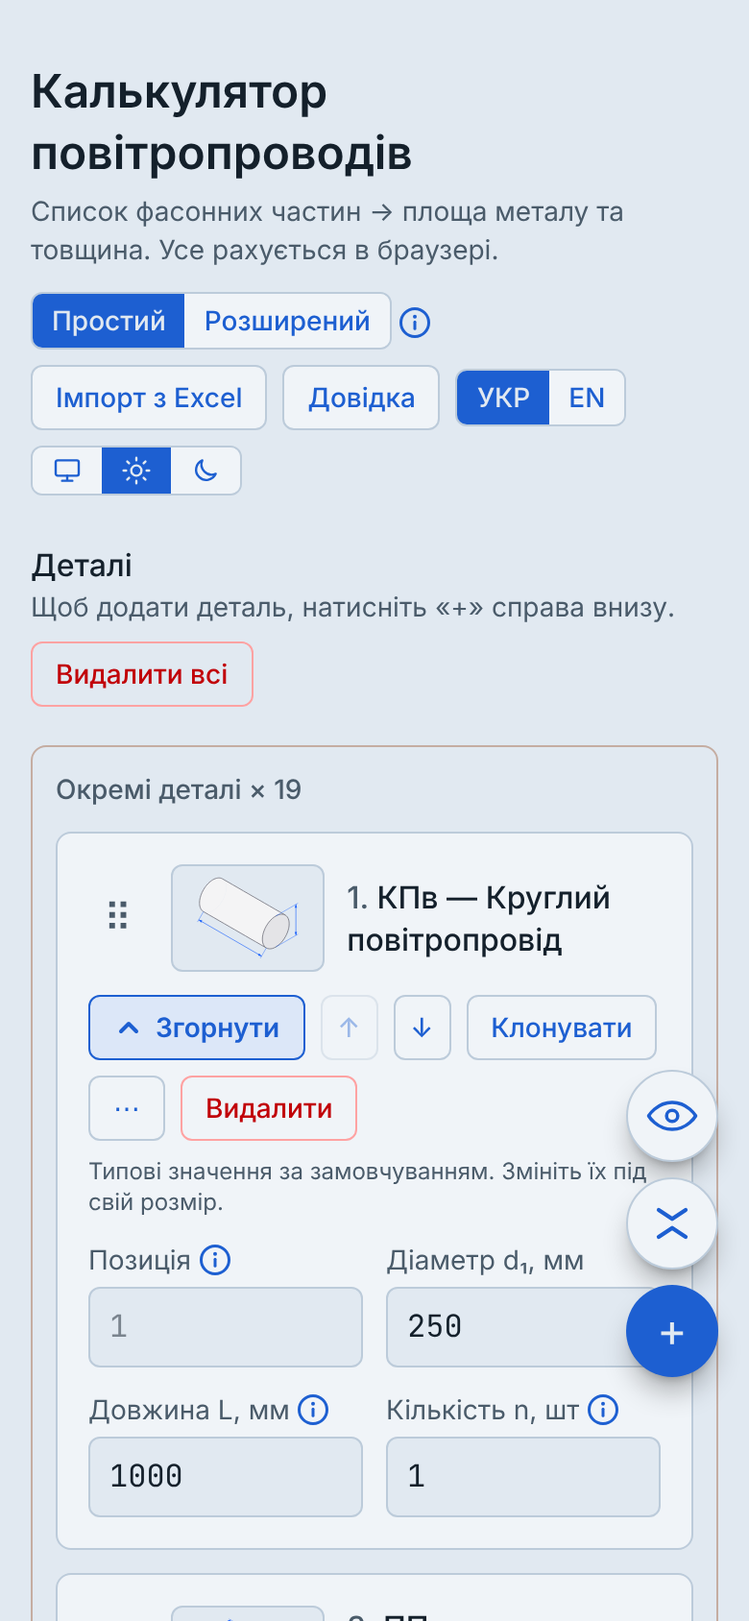
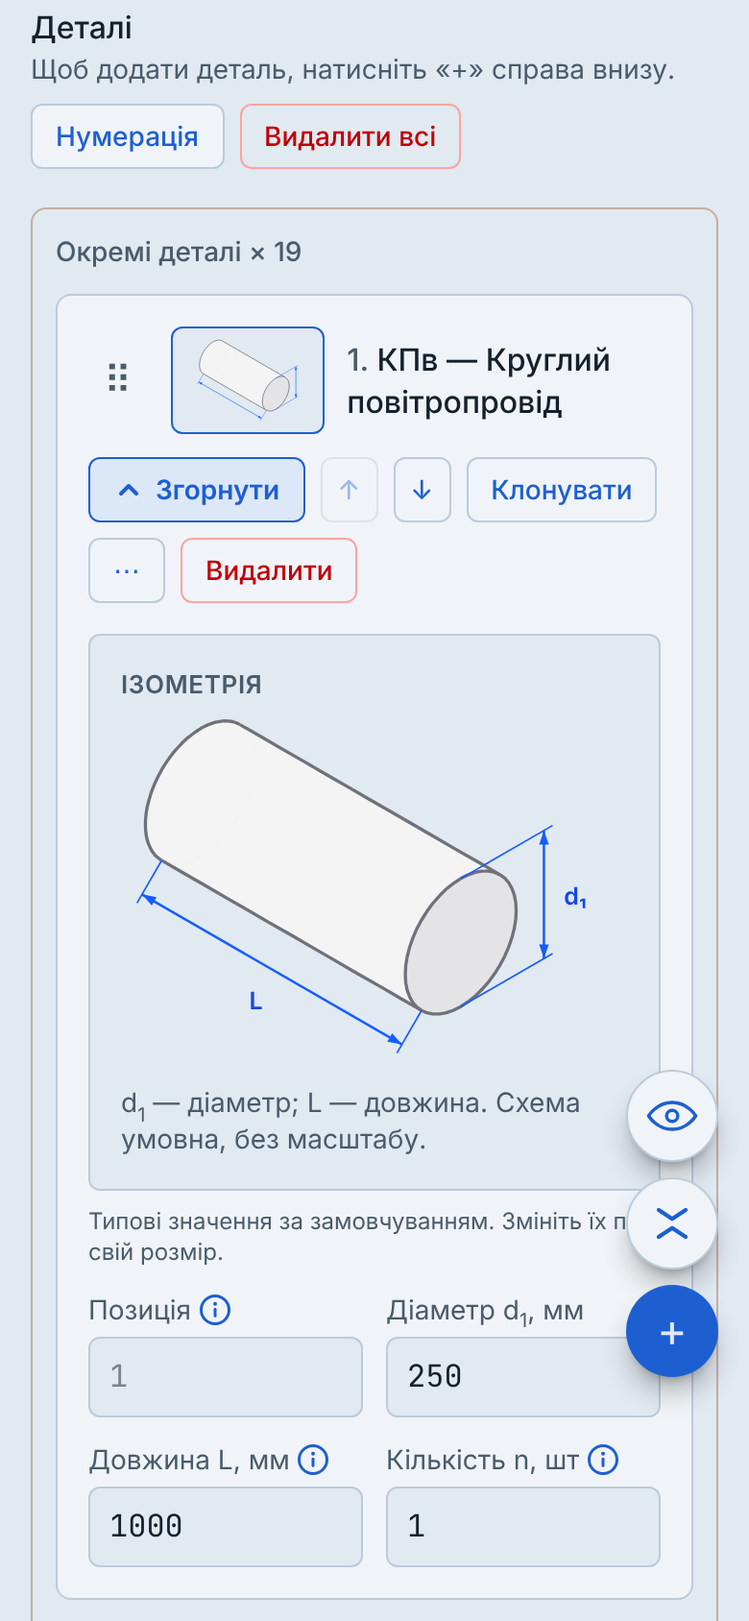
Retake README screenshots; README lists PDF import, numbering, help clips
Claude-Session: https://claude.ai/code/session_0157kQd6xMc9M3T8mymKD6SM

diff --git a/CLAUDE.md b/CLAUDE.md
@@ -8,7 +8,7 @@ Stack: Next.js (App Router), TypeScript strict, Vitest, Zod 4. Core logic is pla
 Engineering decisions: one ADR per file in `docs/adr/`. `docs/decisions.md` is the short index: the ADR list, known deviations from the Excel, the `TODO(confirm)` register and deferred work. The engineer's answers and the Excel template bugs: `docs/engineer-answers.md`.
 
 ## Status
-Stage 0 (fittings geometry, pressure drop) and stage 1 core (thickness table, elbow waste factor, air properties, Zod validation, `assembleSection`) are done and merged. Sheet list by thickness (metal m2 per thickness, `sheetList`) is done. First UI is done (split into focused components + `useCalculator` hook): one client-side calculator page (page width capped at 1920 px, an optional two-column card layout from 1280 px, ADR 0047; Ukrainian by default, English via the УКР / EN switch (bottom of the side rail on desktop, header on the phone, ADR 0048), remembered in `localStorage`, see ADR 0039), no backend. Deployed on Vercel (owner's account, Hobby plan, auto-deploy from `main`, previews per PR); Vercel Web Analytics is wired in (`<Analytics />` in `src/app/layout.tsx`, package `@vercel/analytics`, the owner enables it in the Vercel dashboard). Elbow radius is now suggested from the size in the form (round centre-line R = 1.0 D, rect inner R = 0.5 W, `config.elbowRadius`, `TODO(confirm)`; the field follows the size until the user types over it). During the beta the page opens with one example row of every fitting kind (`form/sample-rows.ts`) and the full sketches are closed by default (only the thumbnail shows, ADR 0081). Each fitting card starts with a thumbnail of its isometric sketch; a click opens the full sketch inside the card and a second click closes it (ADR 0040; it replaced the "Показати схему" button); the sketch is an inline SVG (line style, labels beside the drawing, a legend names the letters, see ADR 0033; the older side view and cross-section stay in the code, unused by the card). Inputs in a row stay aligned when a label wraps (each field is a column packed to the bottom, `justify-end`, so the inputs stay level and the shorter labels sit right above their inputs). Fittings are added from an always-visible side panel (desktop: sticky rail of kind groups with a list beside it; phone: quick buttons and a bottom sheet with search, see ADR 0031); a card shows its kind as a title and changes it through a «⋯» menu. Input warnings (aspect ratio, size over 2000 mm, large elbow radius) are done. Tees and crosses (metal area, 8 kinds, see ADR 0021) are done. Standalone branch-in collars (врізки Квр, Пвр: `roundTap`, `rectTap`, metal area only, see ADR 0026) are done. The engineer's 2026-10-19 answers are in: ДБН thickness table by default (engineer's table selectable), user-set seam allowance for non-elbows, reducer friction by the mean diameter, order margin (default 20 %), sheet size and sheet count (settings block in the UI). The UI shows areas only (owner, 2026-10-19): pressure losses, centerline length, air parameters, airflow and zeta are hidden, the core and its tests are unchanged. The README is the portfolio page (English, with a Ukrainian copy `README.uk.md` and language links at the top; keep both in sync): what the tool does, live link, screenshots in `docs/images/` (taken from a production build at 1440 x 900 and a 390 px phone), supported fittings, how the numbers are verified, stack and commands; refresh the screenshots when the UI changes visibly (last retaken 2026-11-23, desktop and phone in the simple mode). The area formulas were cross-checked against ВСН 353-86, ДСТУ Б Д.2.4-15:2014 and online calculators (2026-10-27); the rect-to-round transition is now the exact layout (ADR 0035), the other kinds agree or differ only by documented choices (slant instead of the axial length, smooth instead of segmented round elbows). Insulation area is in as a beta (ADR 0037): one material per row from the Excel's six, outer surface = metal geometry with each size + 2t, elbows with the cutting coefficient, caps the end plate only; per-row column, a list per material and a total. Price is in (ADR 0038): the user types UAH per m² for each thickness in the metal list and each material in the insulation list (empty = no price, nothing preset); metal is priced on the area to order (margin included), insulation on its computed area; cost per line and totals (metal, insulation, all), unpriced lines are counted, not free. The engineer's 2026-11-16 answers, part one (ADR 0041): his thickness table keys rect sizes by the equivalent diameter 2AB/(A+B) (`ThicknessTable.rectKey`), and every fitting with an allowance takes a number of allowances 2 / 1 / 0 (`allowanceCount`, absent = 2, a select in the card). Part two (ADR 0042): reducers, tees and crosses show two areas, the actual area and the metal consumption (`calc/consumption.ts`: reducers at least `config.consumption.minReducerLengthMm` = 300 mm long, tees and crosses without the cut-out); the order, sheet list, sheet count and metal price use the consumption, insulation the actual geometry. The tap ring (ADR 0043): taps add a flat ring `config.tap.ringWidthMm` = 50 mm wide around the stub (round annulus, rect frame) to the actual metal area and the consumption (`calc/tap-ring.ts` `tapRingArea`, added in `metalArea`, ADR 0044); `sheetArea` and insulation stay the stub only. Straights split into shop pieces (ADR 0045): a per-card max piece length (round 3000, rect 1250 mm, `config.straightPiece`, `TODO(confirm)`; 0 = off), the results show «ланки: 7 × 3 м + 1 × 1,5 м», the area is unchanged (`form/pieces.ts` `splitLength`). In-app help (ADR 0046): an «i» button after the less obvious input labels and column headers opens a short explanation on tap (no hover), and a «Довідка» button in the header opens a six-step how-to dialog (the sixth on the import, ADR 0063); texts in `dict.help`. Manual row order and positions (ADR 0049): cards move by a «⠿» drag handle (mouse on desktop, finger on the phone; live preview, cards glide on a reorder only, ADR 0068) and ↑ / ↓ buttons (everywhere); the rows array is the order of the list and the results; a repeated kind forms a section only where its rows stand together (each section takes the full width, ADR 0071, framed in the accent colour at 35 %, ADR 0072; folded tiles read down the columns, ADR 0065, in rows of equal height, ADR 0066; single fittings, folded or open, sit in an «Окремі деталі» block framed like a section in the colour `--single`, ADRs 0070, 0091); each card has a free-text «Позиція» field (empty = list number, e.g. П1, В2), shown on the card and in the results (`form/order.ts`). Results rows show the sizes under the name and scroll to the card on click, which is then highlighted for 1.5 s (ADRs 0050, 0054); the results table shows the same sections as the list, with section sums; a click on a section title scrolls to the section and highlights it the same way (ADRs 0055, 0057). The results table header sticks to the top of the screen from `lg` (ADR 0075); between `sm` and `lg` the table box is capped at 80vh and the header sticks inside it (ADR 0078). A folded tile shows its four buttons in two rows (ADR 0077); in the two-column layout an open card's buttons stand in two rows, fold and move on top, clone, kind and remove below (ADR 0080). On a phone (below 640 px) the results, sheet list and insulation list render as blocks of «label: value» lines instead of tables (ADR 0058), and an open card sketch sits right under the thumbnail (ADR 0059). The card's «Згорнути» is the first card button and tinted (ADR 0060). A clone opens in its original's view, folded or open (ADR 0056). Section titles start with their positions, «1–2.» or «П1, П2.» (ADR 0051). A whole section moves by its own «⠿» handle and ↑ / ↓ (ADR 0052, `moveBlock`). Seam allowance and order margin are also editable in «Разом», thickness table and sheet size in «Відомість металу за товщиною» (same state, shared field components in `SettingsPanel.tsx`, ADR 0053). Import of a spec table (ADR 0061): «Імпорт з Excel» in the header reads .xlsx / .csv in the browser (no dependency, own ZIP + XML reader), guesses the column mapping (editable, remembered per header text), recognises kinds from codes and names (a hood «Зонт» is a cap, ADR 0079), shows every row (recognised / not recognised with a manual kind choice / service rows) and adds the rows in file order with positions «система-№» from the file; its inputs carry «i» help (`dict.import.info`, ADR 0063); a size in the name that differs from its column is flagged in the preview and as a warning on the card until the field is edited (`sizeConflicts`, `FormRow.sizeConflicts`, ADR 0073). A row the file gives no size for is added with «⚠ розмірів у файлі немає» on the card and the tile (`FormRow.noSizes`, ADR 0074). «Видалити всі» at the «Деталі» heading empties the list after an in-place confirmation (ADR 0062). Simple / advanced interface mode (ADR 0082): a «Простий / Розширений» switch in the header, remembered in `localStorage`, simple by default; the simple mode hides the settings block, allowances, insulation, max piece length and prices (elements with the class `adv-only`, hidden by `<html data-mode="simple">`), hidden values still count. The header toolbar sits left under the title, «Видалити всі» right after the «Деталі» heading (ADR 0083). Sections are tinted, end in a gradient bottom edge (accent in the middle, fading to the corners) and stand further apart from the «Окремі деталі» frames (ADR 0084). On a phone a section header puts ↑ / ↓ above a short «Згорнути» / «Розгорнути» button (ADR 0085). A results row whose card has an error or is not counted starts with a red ⚠, one with warnings with an amber ⚠; the «not counted» note lists the skipped rows as links to their cards (ADR 0086). The rail's sticky box carries `z-30`, so its group list paints above the sections (ADR 0087). On desktop the view toggles (all sketches, fold all, columns; `ViewBar`) left the rail for a left-aligned bar under the «Деталі» heading that sticks to the top, with «Видалити всі» at its end (the phone keeps it beside the heading; ADR 0088). On desktop «Імпорт з Excel» and the mode («Режим», a list beside the rail like the language, `ModeRailButton`) sit at the bottom of the rail and the header toolbar is phone-only (ADR 0089). Fonts: Inter for the text, JetBrains Mono for `font-mono`, via `next/font/google` in `src/app/layout.tsx` (ADR 0090). Theme: «Як у системі» (default) / «Світла» / «Темна», remembered in `localStorage`, on `<html data-theme>` set before paint by an inline script; a «Тема» rail item on desktop, a three-icon switch in the phone header; `dark:` is a custom variant on `data-theme` (ADR 0092). The light palette is a soft grey-blue with no pure white (ADR 0093). Size indices (d₁, a₂) render as `<sub>` in HTML through `subs()` (`calculator/subscripts.tsx`), the SVG sketch labels use the system sans stack (ADR 0094). Each «Довідка» step shows a short muted MP4 clip (`public/help/<step>-<lang>.mp4`, loaded only while the dialog is open, re-recorded by `scripts/record-help.cjs` when the UI changes, ADR 0097). Import also reads a text PDF (`import/pdf.ts`: own reader, no dependency; columns from the table borders or text ranges; scans are refused; the button is «Імпорт з Excel / PDF», ADR 0096). «Нумерація» beside «Видалити всі» numbers positions «система-№» (empty only or all again, with a preview; `numberBySystems`, `systemOf` in `form/order.ts`, `NumberSystems.tsx`, ADR 0095). Next, in the engineer's order: aerodynamics as a separate mode; XLSX export waits for the engineer's reference files.
+Stage 0 (fittings geometry, pressure drop) and stage 1 core (thickness table, elbow waste factor, air properties, Zod validation, `assembleSection`) are done and merged. Sheet list by thickness (metal m2 per thickness, `sheetList`) is done. First UI is done (split into focused components + `useCalculator` hook): one client-side calculator page (page width capped at 1920 px, an optional two-column card layout from 1280 px, ADR 0047; Ukrainian by default, English via the УКР / EN switch (bottom of the side rail on desktop, header on the phone, ADR 0048), remembered in `localStorage`, see ADR 0039), no backend. Deployed on Vercel (owner's account, Hobby plan, auto-deploy from `main`, previews per PR); Vercel Web Analytics is wired in (`<Analytics />` in `src/app/layout.tsx`, package `@vercel/analytics`, the owner enables it in the Vercel dashboard). Elbow radius is now suggested from the size in the form (round centre-line R = 1.0 D, rect inner R = 0.5 W, `config.elbowRadius`, `TODO(confirm)`; the field follows the size until the user types over it). During the beta the page opens with one example row of every fitting kind (`form/sample-rows.ts`) and the full sketches are closed by default (only the thumbnail shows, ADR 0081). Each fitting card starts with a thumbnail of its isometric sketch; a click opens the full sketch inside the card and a second click closes it (ADR 0040; it replaced the "Показати схему" button); the sketch is an inline SVG (line style, labels beside the drawing, a legend names the letters, see ADR 0033; the older side view and cross-section stay in the code, unused by the card). Inputs in a row stay aligned when a label wraps (each field is a column packed to the bottom, `justify-end`, so the inputs stay level and the shorter labels sit right above their inputs). Fittings are added from an always-visible side panel (desktop: sticky rail of kind groups with a list beside it; phone: quick buttons and a bottom sheet with search, see ADR 0031); a card shows its kind as a title and changes it through a «⋯» menu. Input warnings (aspect ratio, size over 2000 mm, large elbow radius) are done. Tees and crosses (metal area, 8 kinds, see ADR 0021) are done. Standalone branch-in collars (врізки Квр, Пвр: `roundTap`, `rectTap`, metal area only, see ADR 0026) are done. The engineer's 2026-10-19 answers are in: ДБН thickness table by default (engineer's table selectable), user-set seam allowance for non-elbows, reducer friction by the mean diameter, order margin (default 20 %), sheet size and sheet count (settings block in the UI). The UI shows areas only (owner, 2026-10-19): pressure losses, centerline length, air parameters, airflow and zeta are hidden, the core and its tests are unchanged. The README is the portfolio page (English, with a Ukrainian copy `README.uk.md` and language links at the top; keep both in sync): what the tool does, live link, screenshots in `docs/images/` (taken from a production build at 1440 x 900 and a 390 px phone), supported fittings, how the numbers are verified, stack and commands; refresh the screenshots when the UI changes visibly (last retaken 2026-11-24 after ADRs 0094-0097, desktop and phone in the simple mode, totals in the advanced mode). The area formulas were cross-checked against ВСН 353-86, ДСТУ Б Д.2.4-15:2014 and online calculators (2026-10-27); the rect-to-round transition is now the exact layout (ADR 0035), the other kinds agree or differ only by documented choices (slant instead of the axial length, smooth instead of segmented round elbows). Insulation area is in as a beta (ADR 0037): one material per row from the Excel's six, outer surface = metal geometry with each size + 2t, elbows with the cutting coefficient, caps the end plate only; per-row column, a list per material and a total. Price is in (ADR 0038): the user types UAH per m² for each thickness in the metal list and each material in the insulation list (empty = no price, nothing preset); metal is priced on the area to order (margin included), insulation on its computed area; cost per line and totals (metal, insulation, all), unpriced lines are counted, not free. The engineer's 2026-11-16 answers, part one (ADR 0041): his thickness table keys rect sizes by the equivalent diameter 2AB/(A+B) (`ThicknessTable.rectKey`), and every fitting with an allowance takes a number of allowances 2 / 1 / 0 (`allowanceCount`, absent = 2, a select in the card). Part two (ADR 0042): reducers, tees and crosses show two areas, the actual area and the metal consumption (`calc/consumption.ts`: reducers at least `config.consumption.minReducerLengthMm` = 300 mm long, tees and crosses without the cut-out); the order, sheet list, sheet count and metal price use the consumption, insulation the actual geometry. The tap ring (ADR 0043): taps add a flat ring `config.tap.ringWidthMm` = 50 mm wide around the stub (round annulus, rect frame) to the actual metal area and the consumption (`calc/tap-ring.ts` `tapRingArea`, added in `metalArea`, ADR 0044); `sheetArea` and insulation stay the stub only. Straights split into shop pieces (ADR 0045): a per-card max piece length (round 3000, rect 1250 mm, `config.straightPiece`, `TODO(confirm)`; 0 = off), the results show «ланки: 7 × 3 м + 1 × 1,5 м», the area is unchanged (`form/pieces.ts` `splitLength`). In-app help (ADR 0046): an «i» button after the less obvious input labels and column headers opens a short explanation on tap (no hover), and a «Довідка» button in the header opens a six-step how-to dialog (the sixth on the import, ADR 0063); texts in `dict.help`. Manual row order and positions (ADR 0049): cards move by a «⠿» drag handle (mouse on desktop, finger on the phone; live preview, cards glide on a reorder only, ADR 0068) and ↑ / ↓ buttons (everywhere); the rows array is the order of the list and the results; a repeated kind forms a section only where its rows stand together (each section takes the full width, ADR 0071, framed in the accent colour at 35 %, ADR 0072; folded tiles read down the columns, ADR 0065, in rows of equal height, ADR 0066; single fittings, folded or open, sit in an «Окремі деталі» block framed like a section in the colour `--single`, ADRs 0070, 0091); each card has a free-text «Позиція» field (empty = list number, e.g. П1, В2), shown on the card and in the results (`form/order.ts`). Results rows show the sizes under the name and scroll to the card on click, which is then highlighted for 1.5 s (ADRs 0050, 0054); the results table shows the same sections as the list, with section sums; a click on a section title scrolls to the section and highlights it the same way (ADRs 0055, 0057). The results table header sticks to the top of the screen from `lg` (ADR 0075); between `sm` and `lg` the table box is capped at 80vh and the header sticks inside it (ADR 0078). A folded tile shows its four buttons in two rows (ADR 0077); in the two-column layout an open card's buttons stand in two rows, fold and move on top, clone, kind and remove below (ADR 0080). On a phone (below 640 px) the results, sheet list and insulation list render as blocks of «label: value» lines instead of tables (ADR 0058), and an open card sketch sits right under the thumbnail (ADR 0059). The card's «Згорнути» is the first card button and tinted (ADR 0060). A clone opens in its original's view, folded or open (ADR 0056). Section titles start with their positions, «1–2.» or «П1, П2.» (ADR 0051). A whole section moves by its own «⠿» handle and ↑ / ↓ (ADR 0052, `moveBlock`). Seam allowance and order margin are also editable in «Разом», thickness table and sheet size in «Відомість металу за товщиною» (same state, shared field components in `SettingsPanel.tsx`, ADR 0053). Import of a spec table (ADR 0061): «Імпорт з Excel» in the header reads .xlsx / .csv in the browser (no dependency, own ZIP + XML reader), guesses the column mapping (editable, remembered per header text), recognises kinds from codes and names (a hood «Зонт» is a cap, ADR 0079), shows every row (recognised / not recognised with a manual kind choice / service rows) and adds the rows in file order with positions «система-№» from the file; its inputs carry «i» help (`dict.import.info`, ADR 0063); a size in the name that differs from its column is flagged in the preview and as a warning on the card until the field is edited (`sizeConflicts`, `FormRow.sizeConflicts`, ADR 0073). A row the file gives no size for is added with «⚠ розмірів у файлі немає» on the card and the tile (`FormRow.noSizes`, ADR 0074). «Видалити всі» at the «Деталі» heading empties the list after an in-place confirmation (ADR 0062). Simple / advanced interface mode (ADR 0082): a «Простий / Розширений» switch in the header, remembered in `localStorage`, simple by default; the simple mode hides the settings block, allowances, insulation, max piece length and prices (elements with the class `adv-only`, hidden by `<html data-mode="simple">`), hidden values still count. The header toolbar sits left under the title, «Видалити всі» right after the «Деталі» heading (ADR 0083). Sections are tinted, end in a gradient bottom edge (accent in the middle, fading to the corners) and stand further apart from the «Окремі деталі» frames (ADR 0084). On a phone a section header puts ↑ / ↓ above a short «Згорнути» / «Розгорнути» button (ADR 0085). A results row whose card has an error or is not counted starts with a red ⚠, one with warnings with an amber ⚠; the «not counted» note lists the skipped rows as links to their cards (ADR 0086). The rail's sticky box carries `z-30`, so its group list paints above the sections (ADR 0087). On desktop the view toggles (all sketches, fold all, columns; `ViewBar`) left the rail for a left-aligned bar under the «Деталі» heading that sticks to the top, with «Видалити всі» at its end (the phone keeps it beside the heading; ADR 0088). On desktop «Імпорт з Excel» and the mode («Режим», a list beside the rail like the language, `ModeRailButton`) sit at the bottom of the rail and the header toolbar is phone-only (ADR 0089). Fonts: Inter for the text, JetBrains Mono for `font-mono`, via `next/font/google` in `src/app/layout.tsx` (ADR 0090). Theme: «Як у системі» (default) / «Світла» / «Темна», remembered in `localStorage`, on `<html data-theme>` set before paint by an inline script; a «Тема» rail item on desktop, a three-icon switch in the phone header; `dark:` is a custom variant on `data-theme` (ADR 0092). The light palette is a soft grey-blue with no pure white (ADR 0093). Size indices (d₁, a₂) render as `<sub>` in HTML through `subs()` (`calculator/subscripts.tsx`), the SVG sketch labels use the system sans stack (ADR 0094). Each «Довідка» step shows a short muted MP4 clip (`public/help/<step>-<lang>.mp4`, loaded only while the dialog is open, re-recorded by `scripts/record-help.cjs` when the UI changes, ADR 0097). Import also reads a text PDF (`import/pdf.ts`: own reader, no dependency; columns from the table borders or text ranges; scans are refused; the button is «Імпорт з Excel / PDF», ADR 0096). «Нумерація» beside «Видалити всі» numbers positions «система-№» (empty only or all again, with a preview; `numberBySystems`, `systemOf` in `form/order.ts`, `NumberSystems.tsx`, ADR 0095). Next, in the engineer's order: aerodynamics as a separate mode; XLSX export waits for the engineer's reference files.
 
 ## Code map (`src/lib/`)
 - `calc/units.ts` - `mmToM`, `mToMm` (import, ADR 0061), `m3hToM3s`, `degToRad`; the only place that converts.

diff --git a/README.uk.md b/README.uk.md
@@ -18,7 +18,9 @@
 - **Площа утеплювача (бета).** Для кожної позиції обирається матеріал утеплювача (шість з таблиці інженера); зовнішня поверхня шару = геометрія металу, де кожен розмір збільшено на дві товщини шару. Площа кожної позиції, відомість за матеріалами і підсумок. Модель буде уточнено з інженером.
 - **Оцінка вартості.** Введіть власну ціну за м² (грн) для кожної товщини металу та матеріалу утеплювача: вартість кожного рядка і разом. Метал рахується від площі до замовлення. Цін за замовчуванням немає.
 - **Попередження щодо введених даних.** Незвичні, але допустимі значення (співвідношення сторін від 3 і понад 6,3, сторона понад 2000 мм, великий радіус відводу) позначаються і ніколи не змінюються.
-- **Імпорт з Excel.** Завантажте готову специфікацію (.xlsx або .csv): сайт сам знаходить колонки (код типу або назва, розміри, довжина, кількість, система й номер), розпізнає типи деталей за кодами інженера й за назвами на кшталт «КО 90 Д150», показує кожен рядок і дає обрати тип для тих, яких не знає. Файл читається в браузері й нікуди не завантажується.
+- **Імпорт з Excel або PDF.** Завантажте готову специфікацію (.xlsx, .csv або PDF з текстом, не скан): сайт сам знаходить колонки (код типу або назва, розміри, довжина, кількість, система й номер), розпізнає типи деталей за кодами інженера й за назвами на кшталт «КО 90 Д150», показує кожен рядок і дає обрати тип для тих, яких не знає. Файл читається в браузері й нікуди не завантажується.
+- **Нумерація по системах.** Одна кнопка дає позиції «система-номер» (ПВ1-1, ПВ1-2): лише порожнім або всім заново, з попереднім переглядом.
+- **Довідка з відео.** «Довідка» проводить через шість кроків, у кожному короткий ролик справжнього інтерфейсу.
 - **Простий і розширений режим.** Простий режим (за замовчуванням) показує лише розміри, кількість і площі металу; розширений додає параметри розрахунку, припуски, утеплювач і ціни. Вибір запам’ятовується в браузері; приховані значення й далі враховуються.
 - **Схеми.** Кожна картка деталі показує мініатюру ізометричної схеми; клік відкриває повну схему з літерами розмірів, які використовуються у формі.
 

diff --git a/README.md b/README.md
@@ -18,7 +18,9 @@ The interface is in Ukrainian by default, with an English version: the УКР / 
 - **Insulation area (beta).** Pick an insulation material per item (six from the engineer's spreadsheet); the outer surface of the layer is the metal geometry with each size increased by twice the layer thickness. Area per item, a list per material and a total. The model will be refined with the engineer.
 - **Cost estimate.** Enter your own price per m² (UAH) for each sheet thickness and insulation material: cost per line and in total. Metal is priced on the area to order (the consumption with the margin). No prices are preset.
 - **Input warnings.** Unusual but valid input (aspect ratio of 3 and above, over 6.3, a side over 2000 mm, a large elbow radius) is flagged and never changed.
-- **Import from Excel.** Load a ready-made spec (.xlsx or .csv): the site finds the columns (type code or name, sizes, length, quantity, system and number), recognises the fitting kinds from the engineer's codes and from names such as «КО 90 Д150», shows every row and lets you pick a kind for the ones it does not know. The file is read in the browser and never uploaded.
+- **Import from Excel or PDF.** Load a ready-made spec (.xlsx, .csv or a PDF with text, not a scan): the site finds the columns (type code or name, sizes, length, quantity, system and number), recognises the fitting kinds from the engineer's codes and from names such as «КО 90 Д150», shows every row and lets you pick a kind for the ones it does not know. The file is read in the browser and never uploaded.
+- **Numbering by systems.** One button gives the positions «system-number» (ПВ1-1, ПВ1-2): to the empty ones only or to all again, with a preview first.
+- **Help with video.** «Довідка» walks through six steps, each with a short clip of the real interface.
 - **Simple and advanced mode.** The simple mode (default) shows only sizes, quantity and the metal figures; the advanced mode adds the calculation settings, allowances, insulation and prices. The choice is remembered in the browser; hidden values still count.
 - **Sketches.** Each fitting card shows a thumbnail of its isometric sketch; a click opens the full sketch with the dimension letters used in the form.
 
